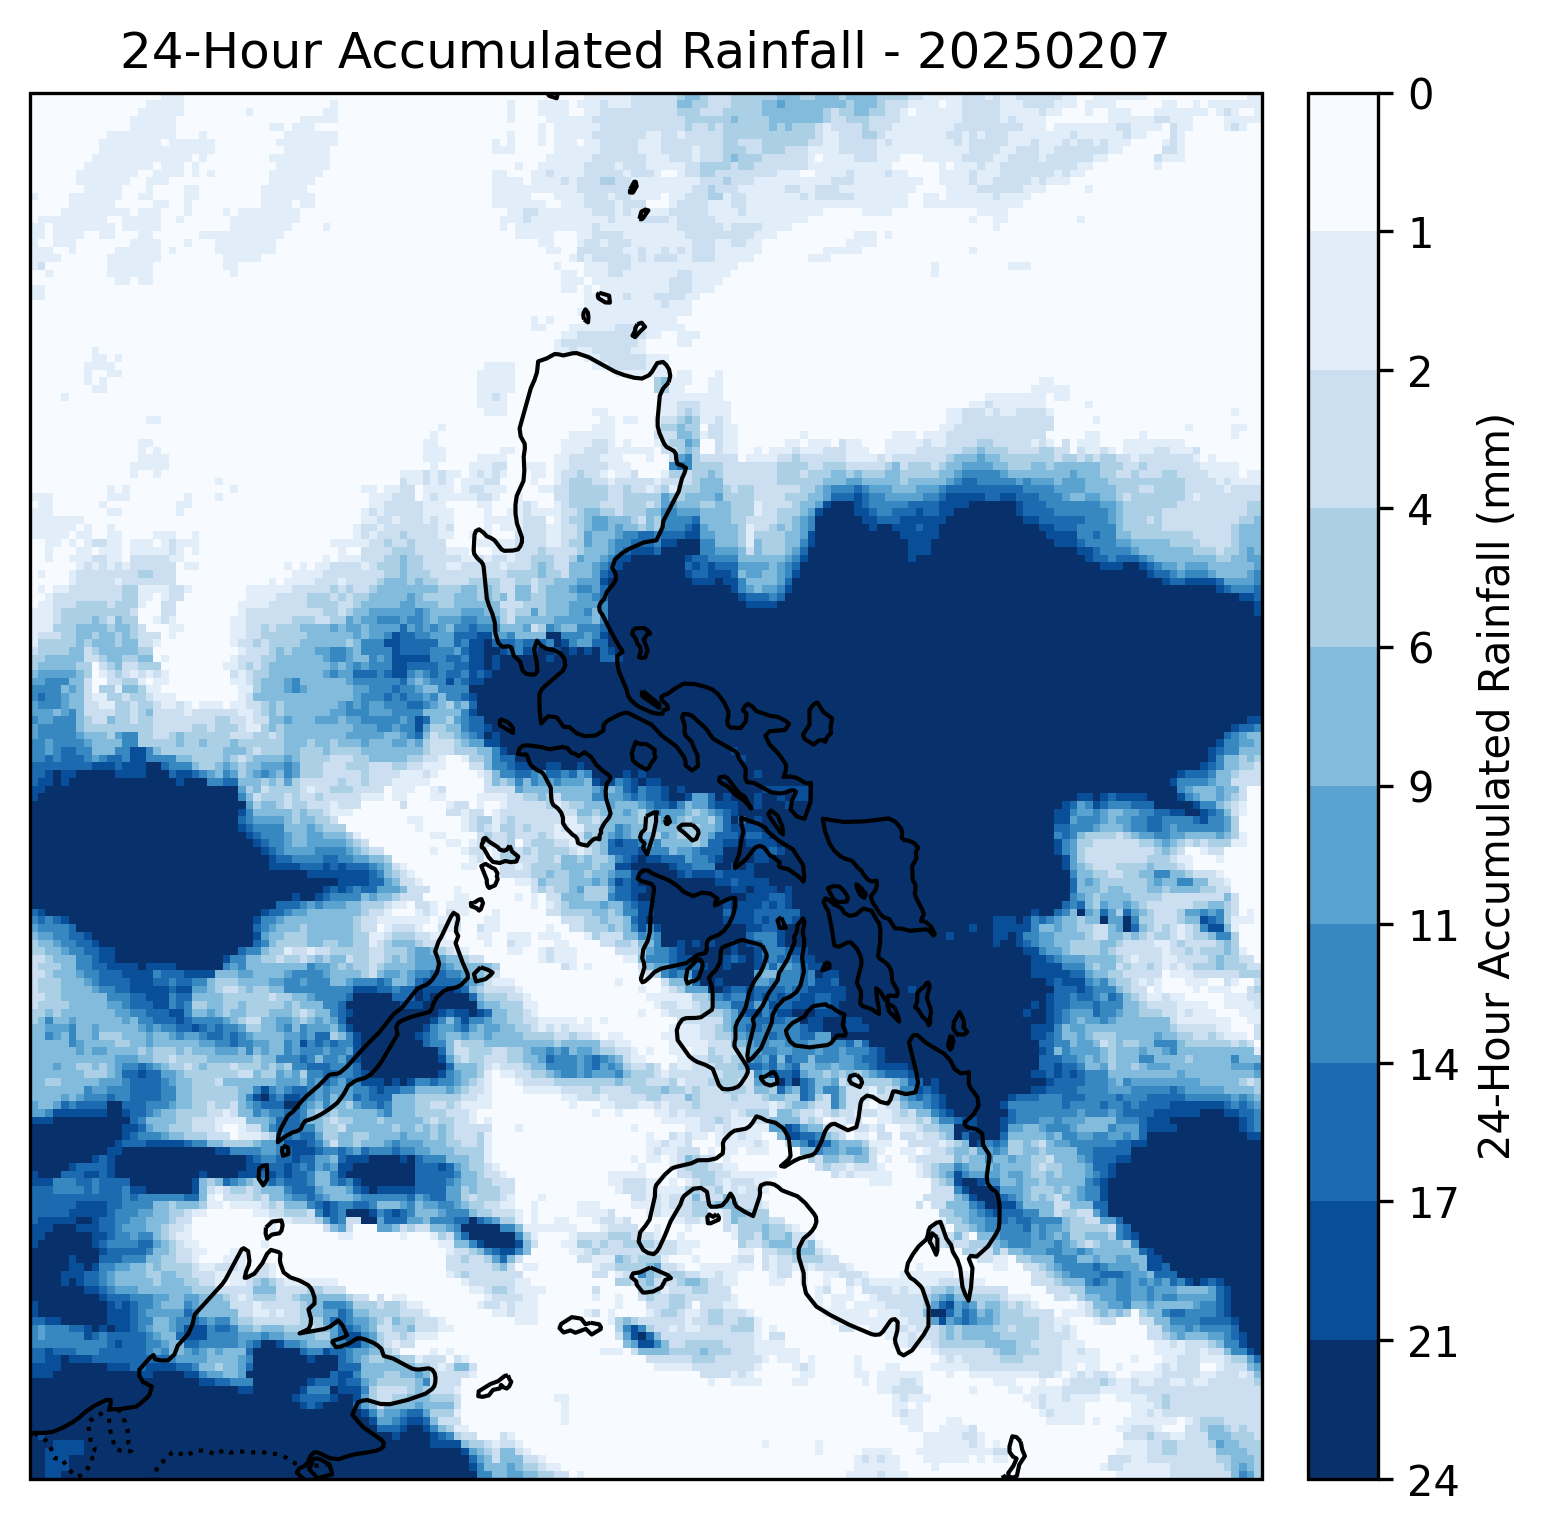
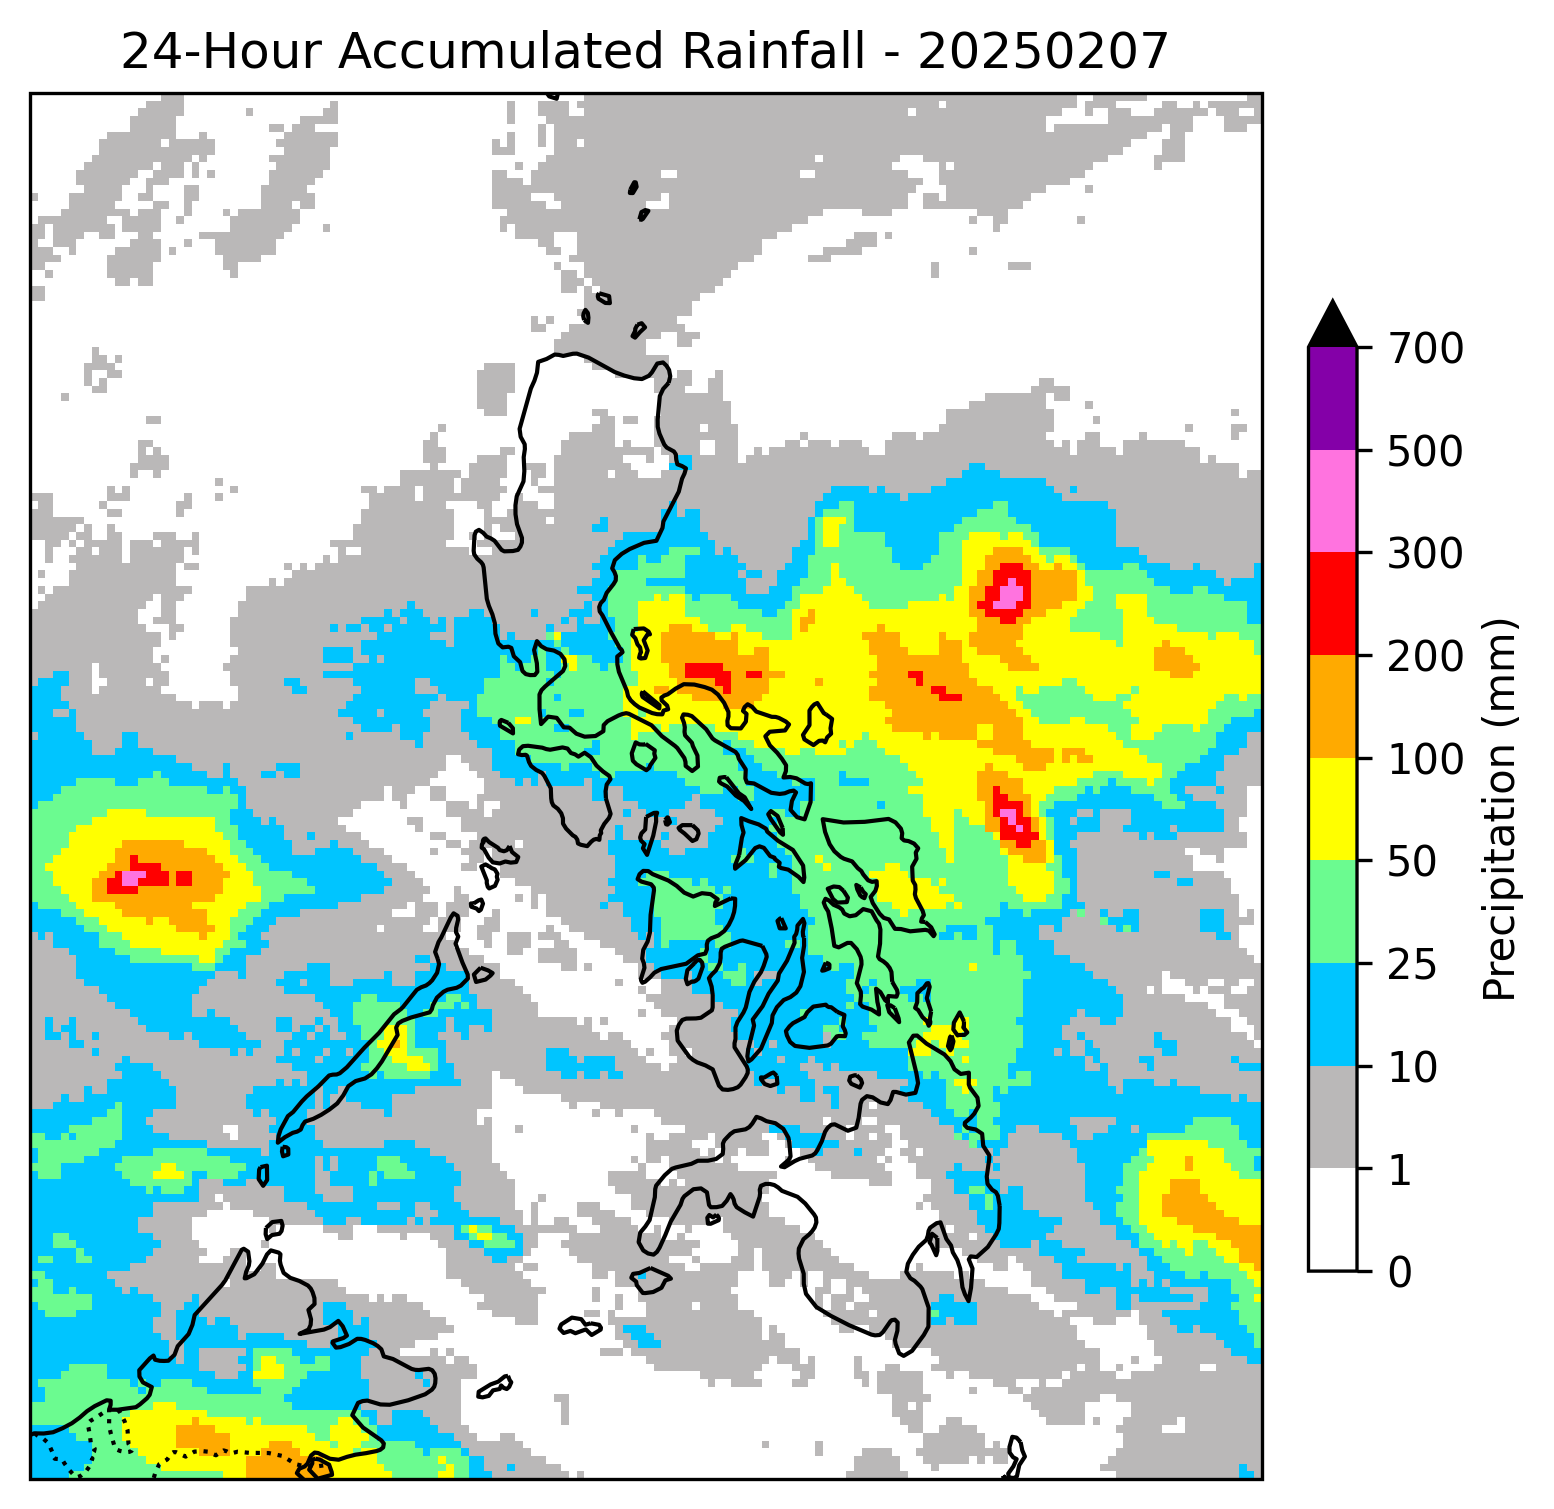
updated color bar of gsmap_plot.py

diff --git a/gsmap_plot.py b/gsmap_plot.py
@@ -15,9 +15,13 @@ os.makedirs(output_dir, exist_ok=True)
 lat_min, lat_max = 4, 22   # Latitude range
 lon_min, lon_max = 114, 130  # Longitude range
 
-# Custom color map and color bar ticks
-cmap = plt.get_cmap("Blues")
-norm = mcolors.BoundaryNorm(boundaries=[0, 1, 2, 4, 6, 9, 11, 14, 17, 21, 24], ncolors=256)
+# Define precipitation thresholds (mm) and corresponding colors
+levels = [0, 1, 10, 25, 50, 100, 200, 300, 500, 700]
+colors = ["#ffffff", "#bab8b8", "#00c5ff", "#6bfb90", "#ffff00", "#ffaa00", "#ff0000", "#ff73df", "#8400a8"]
+
+# Create a custom colormap and norm
+cmap = mcolors.ListedColormap(colors).with_extremes(over="#000000")
+norm = mcolors.BoundaryNorm(levels, cmap.N)
 
 # Loop through each subfolder (each day)
 for day_folder in sorted(os.listdir(data_dir)):
@@ -87,11 +91,11 @@ for day_folder in sorted(os.listdir(data_dir)):
     # Plot rainfall
     cf = ax.pcolormesh(lon, lat, accumulated_rainfall, cmap=cmap, norm=norm, transform=ccrs.PlateCarree(), shading='auto')
 
-    # Add colorbar
-    cbar = plt.colorbar(cf, ax=ax, orientation="vertical", pad=0.02)
-    cbar.set_label("24-Hour Accumulated Rainfall (mm)")
-    cbar.set_ticks([0, 1, 2, 4, 6, 9, 11, 14, 17, 21, 24])  # Set colorbar ticks
-    cbar.ax.invert_yaxis()  # Invert colorbar if desired (highest values at top)
+    # Add a custom color bar
+    cbar = plt.colorbar(cf, ax=ax, orientation="vertical", shrink=0.7, pad=0.02, extend="max")
+    cbar.set_label("Precipitation (mm)")
+    cbar.set_ticks(levels)
+    cbar.set_ticklabels([f"{int(l)}" for l in levels])
 
     # Add title
     ax.set_title(f"24-Hour Accumulated Rainfall - {day_folder}")
